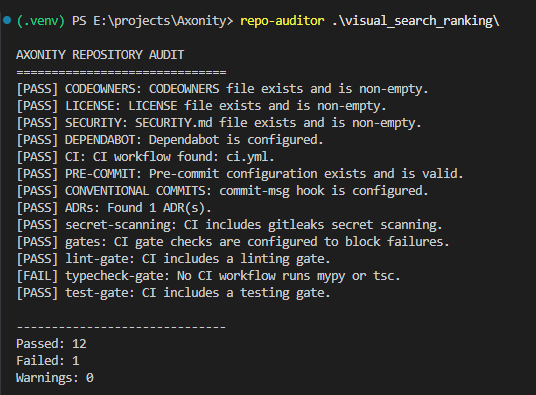
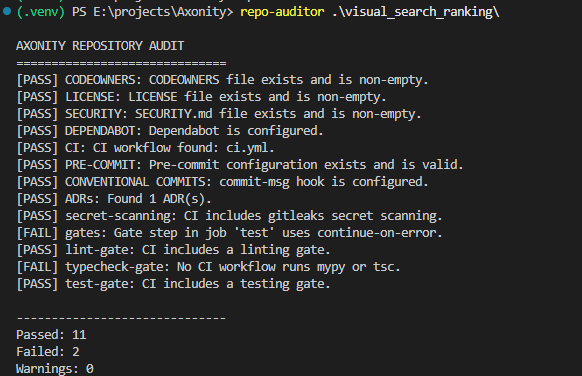
fix: made changes to the gates.py logic to work correctly

Changed region(s): [[0.0, 0.0, 0.9254, 0.7899], [0.0, 0.8191, 0.4179, 1.0]]

diff --git a/tests/checks/test_gates.py b/tests/checks/test_gates.py
@@ -6,7 +6,6 @@ from repo_auditor.models import CheckStatus
 
 def test_gates_fails_when_workflows_directory_missing(tmp_path: Path) -> None:
     """Gates fail when the workflows directory is missing."""
-
     result = check_gates(tmp_path)
 
     assert result.status == CheckStatus.FAIL
@@ -15,7 +14,6 @@ def test_gates_fails_when_workflows_directory_missing(tmp_path: Path) -> None:
 
 def test_gates_ignores_non_workflow_files(tmp_path: Path) -> None:
     """Gates ignore files that are not YAML workflows."""
-
     workflows = tmp_path / ".github" / "workflows"
     workflows.mkdir(parents=True)
 
@@ -31,7 +29,6 @@ def test_gates_ignores_non_workflow_files(tmp_path: Path) -> None:
 
 def test_gates_ignores_invalid_yaml(tmp_path: Path) -> None:
     """Gates ignore workflows containing invalid YAML."""
-
     workflows = tmp_path / ".github" / "workflows"
     workflows.mkdir(parents=True)
 
@@ -52,7 +49,6 @@ jobs:
 
 def test_gates_ignores_non_dict_yaml(tmp_path: Path) -> None:
     """Gates ignore YAML that does not contain a mapping."""
-
     workflows = tmp_path / ".github" / "workflows"
     workflows.mkdir(parents=True)
 
@@ -68,7 +64,6 @@ def test_gates_ignores_non_dict_yaml(tmp_path: Path) -> None:
 
 def test_gates_ignores_non_dict_jobs(tmp_path: Path) -> None:
     """Gates ignore workflows whose jobs value is not a mapping."""
-
     workflows = tmp_path / ".github" / "workflows"
     workflows.mkdir(parents=True)
 
@@ -88,7 +83,6 @@ jobs:
 
 def test_gates_ignores_non_dict_job(tmp_path: Path) -> None:
     """Gates ignore jobs that are not mappings."""
-
     workflows = tmp_path / ".github" / "workflows"
     workflows.mkdir(parents=True)
 
@@ -108,7 +102,6 @@ jobs:
 
 def test_gates_ignores_job_without_gate_command(tmp_path: Path) -> None:
     """Gates ignore jobs that do not contain a gate command."""
-
     workflows = tmp_path / ".github" / "workflows"
     workflows.mkdir(parents=True)
 
@@ -131,7 +124,6 @@ jobs:
 
 def test_gates_ignores_non_list_steps(tmp_path: Path) -> None:
     """Gates ignore gate jobs whose steps value is not a list."""
-
     workflows = tmp_path / ".github" / "workflows"
     workflows.mkdir(parents=True)
 
@@ -153,7 +145,6 @@ jobs:
 
 def test_gates_ignores_non_dict_steps(tmp_path: Path) -> None:
     """Gates ignore individual steps that are not mappings."""
-
     workflows = tmp_path / ".github" / "workflows"
     workflows.mkdir(parents=True)
 
@@ -177,7 +168,6 @@ jobs:
 
 def test_gates_ignores_step_without_run_command(tmp_path: Path) -> None:
     """Gates ignore continue-on-error steps without a run command."""
-
     workflows = tmp_path / ".github" / "workflows"
     workflows.mkdir(parents=True)
 
@@ -202,7 +192,6 @@ jobs:
 
 def test_gates_ignores_step_with_non_string_run(tmp_path: Path) -> None:
     """Gates ignore continue-on-error steps whose run value is not a string."""
-
     workflows = tmp_path / ".github" / "workflows"
     workflows.mkdir(parents=True)
 
@@ -226,8 +215,7 @@ jobs:
 
 
 def test_gates_ignores_gate_commands_outside_run_steps(tmp_path: Path) -> None:
-    """Gate-like text in job environment values does not count as execution."""
-
+    """Gate-like text outside run steps does not count as execution."""
     workflows = tmp_path / ".github" / "workflows"
     workflows.mkdir(parents=True)
 
@@ -250,9 +238,8 @@ jobs:
     assert result.status == CheckStatus.PASS
 
 
-def test_gates_detects_all_supported_gate_commands(tmp_path: Path) -> None:
-    """Gates recognize each supported gate command."""
-
+def test_gates_detects_supported_gate_processes(tmp_path: Path) -> None:
+    """Gates recognize supported lint, test, typecheck, and security processes."""
     workflows = tmp_path / ".github" / "workflows"
     workflows.mkdir(parents=True)
 
@@ -270,6 +257,8 @@ jobs:
       - run: tsc --noEmit
       - run: npm test
       - run: npm run test
+      - run: black .
+      - run: isort .
 """,
         encoding="utf-8",
     )
@@ -279,12 +268,90 @@ jobs:
     assert result.status == CheckStatus.PASS
 
 
-def test_gates_does_not_treat_decorative_command_as_gate(tmp_path: Path) -> None:
-    """A gate command mentioned in a job name should not count as a gate."""
-    workflows_dir = tmp_path / ".github" / "workflows"
-    workflows_dir.mkdir(parents=True)
+def test_gates_fails_when_gate_step_uses_continue_on_error(
+    tmp_path: Path,
+) -> None:
+    """Gates fail when a recognized gate uses continue-on-error."""
+    workflows = tmp_path / ".github" / "workflows"
+    workflows.mkdir(parents=True)
 
-    (workflows_dir / "ci.yml").write_text(
+    (workflows / "ci.yml").write_text(
+        """
+name: CI
+jobs:
+  test:
+    runs-on: ubuntu-latest
+    steps:
+      - run: black .
+        continue-on-error: true
+""",
+        encoding="utf-8",
+    )
+
+    result = check_gates(tmp_path)
+
+    assert result.status == CheckStatus.FAIL
+    assert result.message == ("Gate step in job 'test' uses continue-on-error.")
+
+
+def test_gates_fails_for_isort_continue_on_error(tmp_path: Path) -> None:
+    """Gates fail when isort uses continue-on-error."""
+    workflows = tmp_path / ".github" / "workflows"
+    workflows.mkdir(parents=True)
+
+    (workflows / "ci.yml").write_text(
+        """
+name: CI
+jobs:
+  test:
+    runs-on: ubuntu-latest
+    steps:
+      - run: isort .
+        continue-on-error: true
+""",
+        encoding="utf-8",
+    )
+
+    result = check_gates(tmp_path)
+
+    assert result.status == CheckStatus.FAIL
+    assert result.message == ("Gate step in job 'test' uses continue-on-error.")
+
+
+def test_gates_fails_when_job_uses_continue_on_error(
+    tmp_path: Path,
+) -> None:
+    """Gates fail when a job containing a gate uses continue-on-error."""
+    workflows = tmp_path / ".github" / "workflows"
+    workflows.mkdir(parents=True)
+
+    (workflows / "ci.yml").write_text(
+        """
+name: CI
+jobs:
+  test:
+    runs-on: ubuntu-latest
+    continue-on-error: true
+    steps:
+      - run: pytest
+""",
+        encoding="utf-8",
+    )
+
+    result = check_gates(tmp_path)
+
+    assert result.status == CheckStatus.FAIL
+    assert result.message == "Job 'test' uses continue-on-error."
+
+
+def test_gates_does_not_treat_decorative_command_as_gate(
+    tmp_path: Path,
+) -> None:
+    """A gate command mentioned in a job name should not count as a gate."""
+    workflows = tmp_path / ".github" / "workflows"
+    workflows.mkdir(parents=True)
+
+    (workflows / "ci.yml").write_text(
         """
 name: CI
 

diff --git a/src/repo_auditor/checks/gates.py b/src/repo_auditor/checks/gates.py
@@ -5,14 +5,8 @@ This module inspects GitHub Actions workflow files and verifies that
 important quality and security commands are configured as blocking gates.
 
 A gate is considered protected when a workflow runs one of the supported
-commands without allowing the job or individual gate step to continue
+processes without allowing the job or individual gate step to continue
 after a failure.
-
-The check currently recognizes:
-- gitleaks for secret scanning
-- ruff for linting
-- mypy and tsc for type checking
-- pytest and npm test commands for testing
 
 The check fails when a recognized gate uses `continue-on-error: true`,
 because this allows the workflow to succeed even when the gate fails.
@@ -25,17 +19,8 @@ from pathlib import Path
 
 import yaml
 
+from repo_auditor.checks._process_gate import has_process_command
 from repo_auditor.models import CheckResult, CheckStatus
-
-_GATE_COMMANDS = (
-    "gitleaks",
-    "ruff",
-    "mypy",
-    "tsc",
-    "pytest",
-    "npm test",
-    "npm run test",
-)
 
 
 def check_gates(repo_path: Path) -> CheckResult:
@@ -75,9 +60,24 @@ def check_gates(repo_path: Path) -> CheckResult:
             gate_steps = [
                 step
                 for step in steps
-                if isinstance(step, dict)
-                and isinstance(step.get("run"), str)
-                and any(command in step["run"] for command in _GATE_COMMANDS)
+                if (
+                    isinstance(step, dict)
+                    and isinstance(step.get("run"), str)
+                    and any(
+                        has_process_command(
+                            step["run"],
+                            gate_type,
+                            job_name=str(job_name),
+                            step_name=str(step.get("name") or ""),
+                        )
+                        for gate_type in (
+                            "lint",
+                            "typecheck",
+                            "test",
+                            "security",
+                        )
+                    )
+                )
             ]
 
             if not gate_steps:

diff --git a/src/repo_auditor/checks/_process_gate.py b/src/repo_auditor/checks/_process_gate.py
@@ -125,6 +125,8 @@ def has_process_command(
                 "eslint",
                 "stylelint",
                 "biome",
+                "black",
+                "isort",
             }:
                 return True
 

diff --git a/docs/adr/0004-decision_to_update_lint_gate_and_test_gate.md b/docs/adr/0004-decision_to_update_lint_gate_and_test_gate.md
@@ -1,4 +1,4 @@
-# ADR 0004: Decision to update lint gate and test gate CI detection
+# ADR 0004: Decision to update CI gate process detection
 
 **Status:** Proposed
 
@@ -10,41 +10,35 @@ The Week 0 repository audit requires CI gates for processes such as linting and 
 
 The original lint and test gate checks relied on specific tool names such as Ruff and pytest. This could incorrectly fail repositories that used an equivalent tool or process. The checks also risked false positives when words such as `test` or `lint` appeared in job names, step names, shell output, or package installation commands without actually executing the required process.
 
+The `gates.py` check also relied on a hardcoded list of recognized commands. This could cause the gate check to miss valid CI processes and incorrectly report a repository as passing when a recognized gate process used `continue-on-error: true`.
+
 The auditor therefore needed a shared approach that focused on the process being executed in GitHub Actions rather than requiring one specific library or package.
 
 ## Decision
 
-We will use a shared process-based detection helper in `_process_gate.py` for lint and test gate checks.
+We will use a shared process-based detection helper in `_process_gate.py` for lint, test, and CI gate checks.
 
 The helper inspects executable commands from GitHub Actions `run` steps and recognizes common patterns for testing and linting, including direct tools, package scripts, Make targets, Python modules, and project scripts. Job names and step names will not be treated as evidence that a process is being executed.
 
-
+The `gates.py` check will use the same helper to identify recognized CI gate processes and verify that those processes are configured as blocking gates. This ensures that `continue-on-error: true` is detected for supported processes even when the specific tool was not included in the previous hardcoded command list.
 
 Updated repo-auditor running against the other repositories.
-
-
 
 - project-template
 
 ![](../images/project-template_updated.png)
 
-
 - axonity_chatbot
 
 ![](../images/axonity_chatbot_updated.png)
-
 
 - visual_search_ranking
 
 ![](../images/visual_search_ranking_updated.png)
 
-
 - repo-auditor
 
 ![](../images/repo-auditor_updated.png)
-
-
-
 
 ## Alternatives considered
 
@@ -56,9 +50,11 @@ Updated repo-auditor running against the other repositories.
 
 ## Consequences
 
-The lint and test checks can now support a broader range of legitimate repository configurations without requiring a specific tool.
+The lint, test, and CI gate checks can now support a broader range of legitimate repository configurations without requiring a specific tool.
 
-The shared helper also reduces duplicated detection logic between the lint and test checks and makes false-positive behavior easier to test.
+The shared helper also reduces duplicated detection logic between the lint, test, and CI gate checks and makes false-positive behavior easier to test.
+
+Applying the shared process-based detection to `gates.py` also prevents CI gates from being incorrectly reported as passing when a recognized gate process uses `continue-on-error: true`.
 
 The approach remains heuristic. It cannot reliably determine the purpose of every arbitrary shell command, so additional process patterns may need to be added as new repository configurations are encountered.
 

diff --git a/CHANGELOG.md b/CHANGELOG.md
@@ -15,6 +15,7 @@ and this project adheres to [Semantic Versioning](https://semver.org/).
 - Prevented false positives from job names, step names, shell output, package installation commands, and unrelated build commands.
 - Expanded test gate coverage for equivalent testing processes, invalid workflow structures, and false-positive scenarios.
 - Added dedicated unit tests for the shared process gate helper.
+- Updated CI gate detection to use shared process-based command detection.
 
 ## [1.4.0] - 2026-08-31
 
